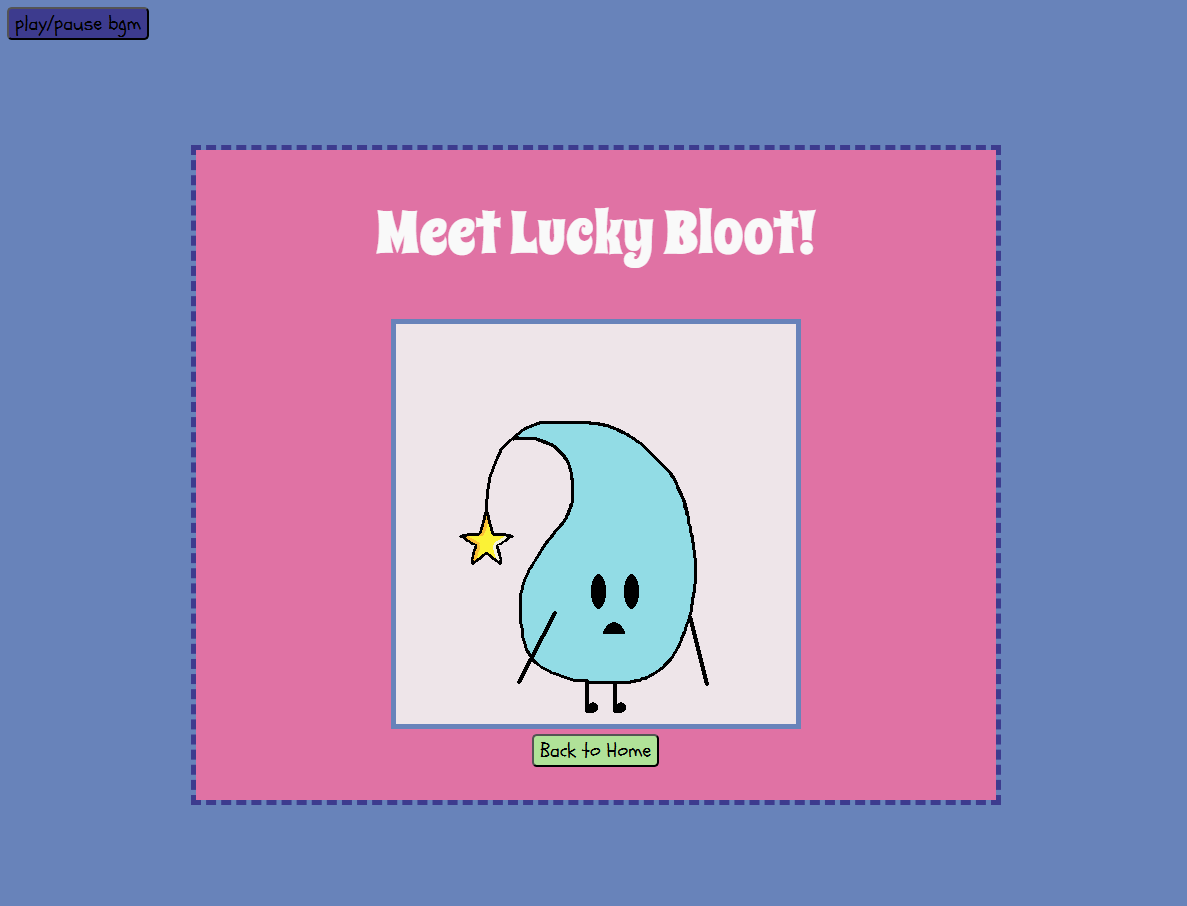
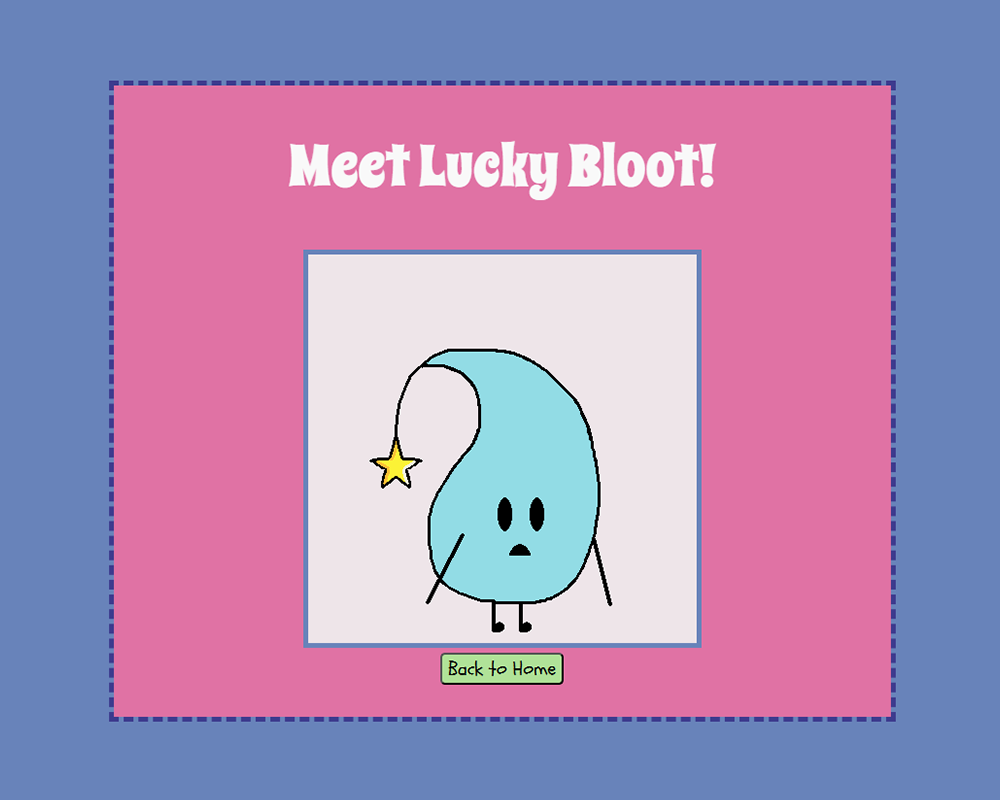
completed blootmaker project page

Changed region(s): [[0.093, 0.0938, 0.899, 0.9062], [0.0, 0.0, 0.124, 0.0625]]

diff --git a/projects/blootmaker.html b/projects/blootmaker.html
@@ -35,16 +35,19 @@
         <div id="kayCarouselExampleControls" class="carousel slide" data-bs-ride="carousel">
             <div class="carousel-inner">
                 <div class="carousel-item active">
-                    <img src="../media/kaycrochets/kaycrochetsmain.png" class="d-block w-100" alt="...">
+                    <img src="../media/blootmaker/startpg.png" class="d-block w-100" alt="...">
                 </div>
                 <div class="carousel-item">
-                    <img src="../media/kaycrochets/phase2mobile.png" class="d-block w-100" alt="...">
+                    <img src="../media/blootmaker/customizepg.png" class="d-block w-100" alt="...">
                 </div>
                 <div class="carousel-item">
-                    <img src="../media/kaycrochets/phase1.png" class="d-block w-100" alt="...">
+                    <img src="../media/blootmaker/completepg.png" class="d-block w-100" alt="...">
                 </div>
                 <div class="carousel-item">
-                    <img src="../media/kaycrochets/phase2sketch.png" class="d-block w-100" alt="...">
+                    <img src="../media/blootmaker/homebloots.png" class="d-block w-100" alt="...">
+                </div>
+                <div class="carousel-item">
+                    <img src="../media/blootmaker/blootmakersketch.png" class="d-block w-100" alt="...">
                 </div>
             </div>
             <button class="carousel-control-prev" type="button" data-bs-target="#kayCarouselExampleControls"
@@ -69,21 +72,25 @@
                 <li>CSS</li>
                 <li>JavaScript</li>
             </ul>
-            <p>This website displays an interactive experience based on an original character named Bloot.
+            <p>This website displays an avatar creator experience based on an original character named Bloot.
             </p>
-            <a target="_blank" href="https://kaylahr-28.github.io/kaycrochets/">To Website</a>
-
+            <!--    <a target="_blank" href="https://kaylahr-28.github.io/kaycrochets/">To Website</a>
+-->
         </div>
     </div>
     <div class="projdesc">
         <h2>The Process</h2>
-        <p> For this solo class project, I decided to make my website focused on one of my favorite hobbies: crocheting.
-            After completing Phase 1 of the project, where we were tasked to digitally recreate a layout from a printed
-            media source, we then moved into Phase 2, in which we redesigned our digital layout to display our own
-            content. I wanted to keep the magazine feel of the original, so I continued to use the column look from
-            Phase 1. I chose a playful color palette and fonts to reflect the feeling I wanted to invoke within the
-            user. Throughout the process of completing this project, I learned how to effectively use CSS flexboxes and
-            grids to develop website page layouts.
+        <p> For this solo class project, I decided to build upon a character I created my freshman year named Bloot. I
+            aimed to create a fun and lighthearted interactive experience. I began by sketching out pages of the site
+            such as the customization and completed character pages. I determined various characteristics of Bloot that
+            I could use in this experience. I then coded in the bare bones of the website using JavaScript and HTML to
+            implement DOM interactions and page navigation. I created sprites of Bloot's physical features using
+            Aseprite and coded in those assets' display controls based on DOM user input. Then, I introduced a feature
+            that saves the user's created characters to the home page. This was meant to give further meaning to the
+            user's creations post-completion, rather than discarding any of the characters they worked on. After
+            refining the layout of each page, I then determined a color palette and font choice to match the fun
+            experience I hoped to convey. Finally, I included a button to play background music throughout the user's
+            experience using the site, as well as sound effects activated by button clicks.
         </p>
     </div>
     <script src="https://cdn.jsdelivr.net/npm/@popperjs/core@2.9.3/dist/umd/popper.min.js"

diff --git a/index.html b/index.html
@@ -23,7 +23,7 @@
 
                 <li><a href="#projects">Projects</a></li>
                 <li><a href="#contact">Contact</a></li>
-                 <li><a target="_blank" href="media/Rouzier_Kaylah_Resume.pdf">Resume</a></li>
+                <li><a target="_blank" href="media/Rouzier_Kaylah_Resume.pdf">Resume</a></li>
             </ul>
         </nav>
     </header>
@@ -80,6 +80,19 @@
         <p>Click on one of my projects to learn more!</p>
         <div id="allprojects">
 
+            <a href="projects/blootmaker.html">
+                <div class="project">
+                    <img src="media/blootmaker/customizepg.png">
+                    <h3>Bloot Maker</h3>
+                    <h4>December 2025</h4>
+                    <ul>
+                        <li>HTML</li>
+                        <li>CSS</li>
+                        <li>JavaScript</li>
+                    </ul>
+                </div>
+            </a>
+
             <a href="projects/kaycrochets.html">
                 <div class="project">
                     <img src="media/kaycrochets/kaycrochetsmain.png">
@@ -92,21 +105,6 @@
                 </div>
             </a>
 
-            <!--
-              <a href="projects/kaycrochets.html">
-                <div class="project">
-                    <img src="media/kaycrochets/kaycrochetsmain.png">
-                    <h3>KayCrochets</h3>
-                    <h4>October 2025</h4>
-                    <ul>
-                        <li>HTML</li>
-                        <li>CSS</li>
-                        <li>JavaScript<li>
-                    </ul>
-                </div>
-            </a>
-            
-            -->
             <a href="projects/musicposter.html">
                 <div class="project">
                     <img src="media/musicposters/illitposter.png">
